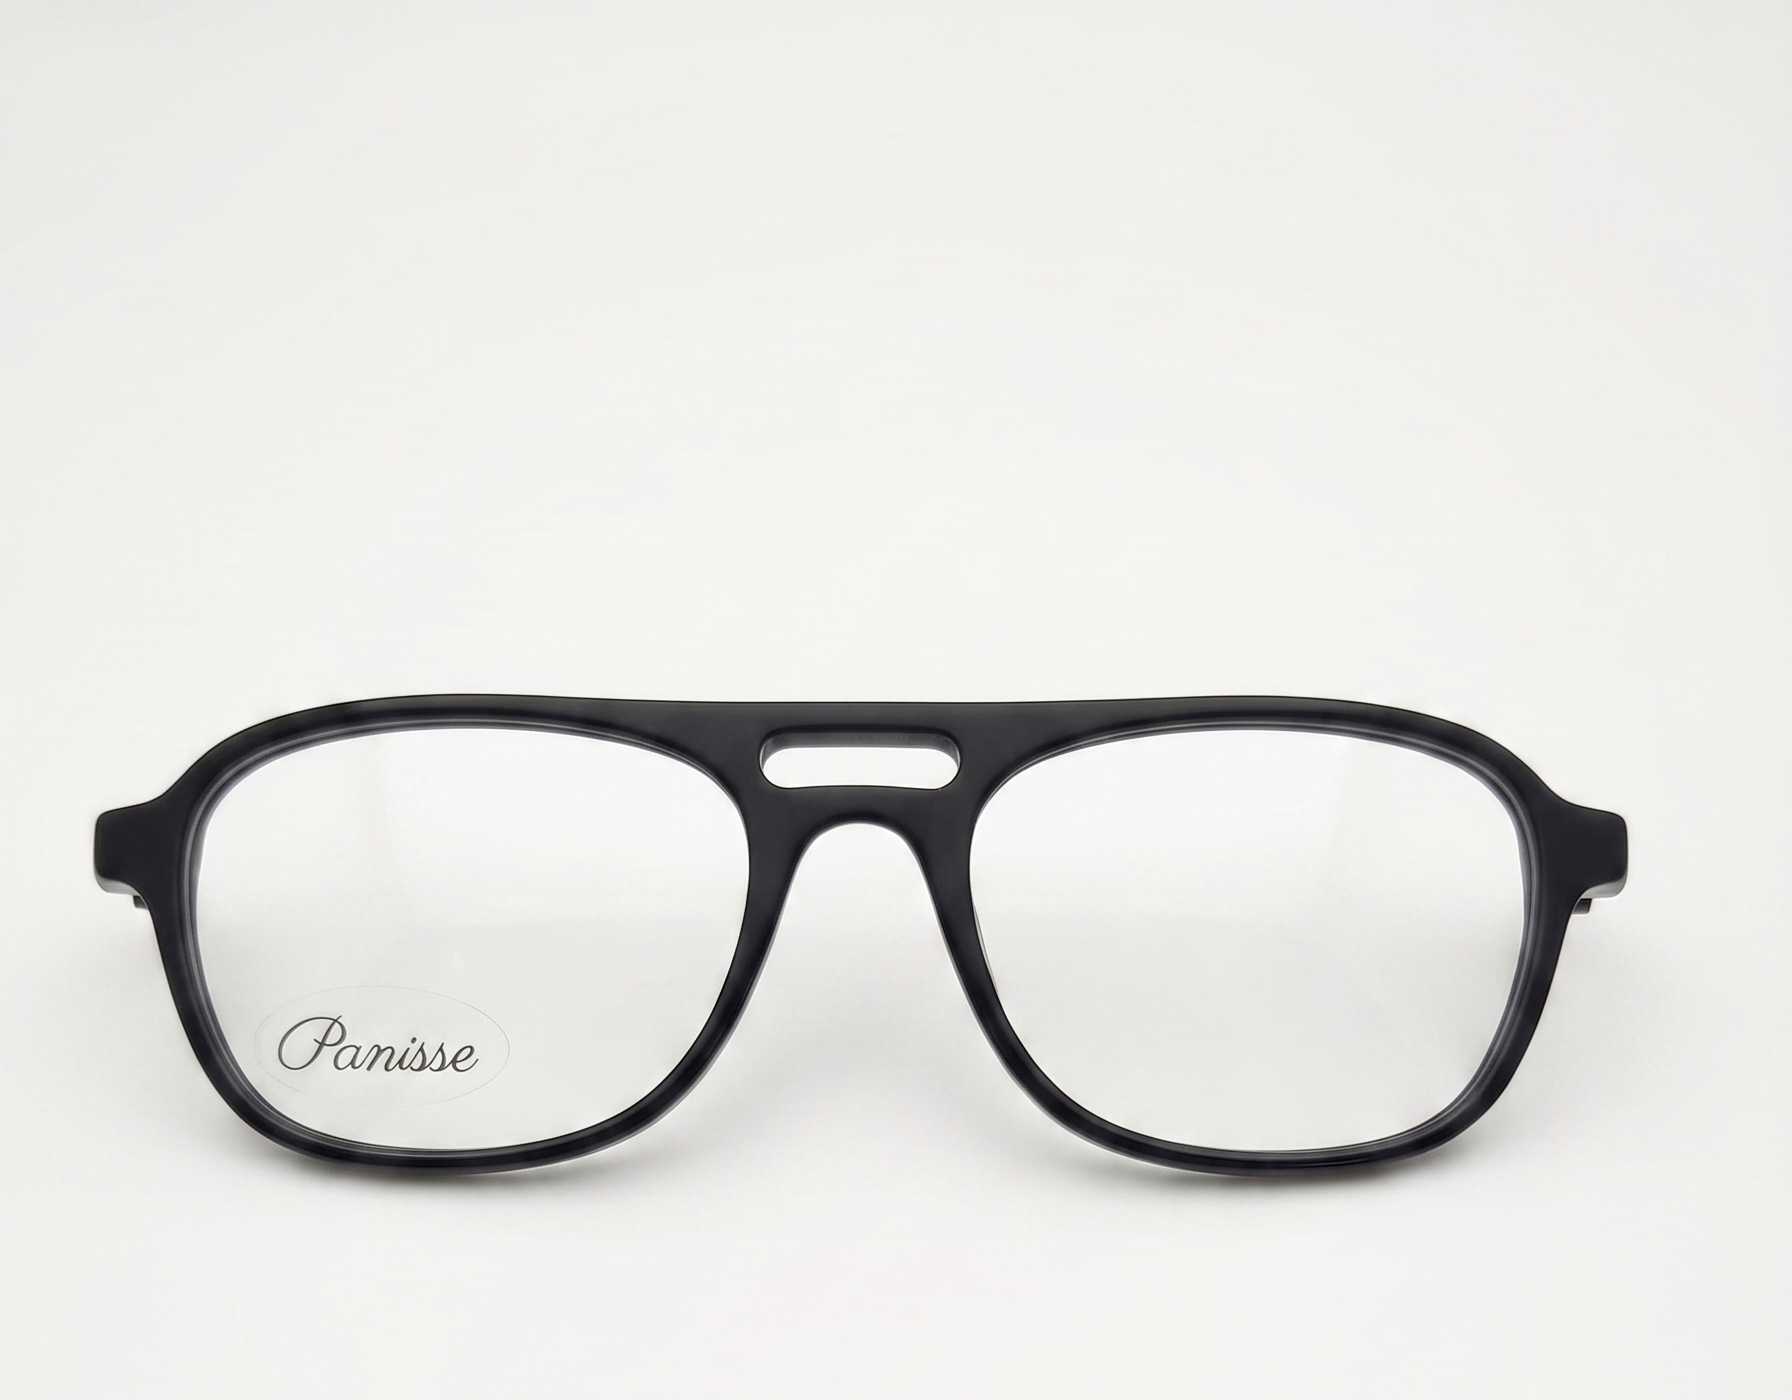
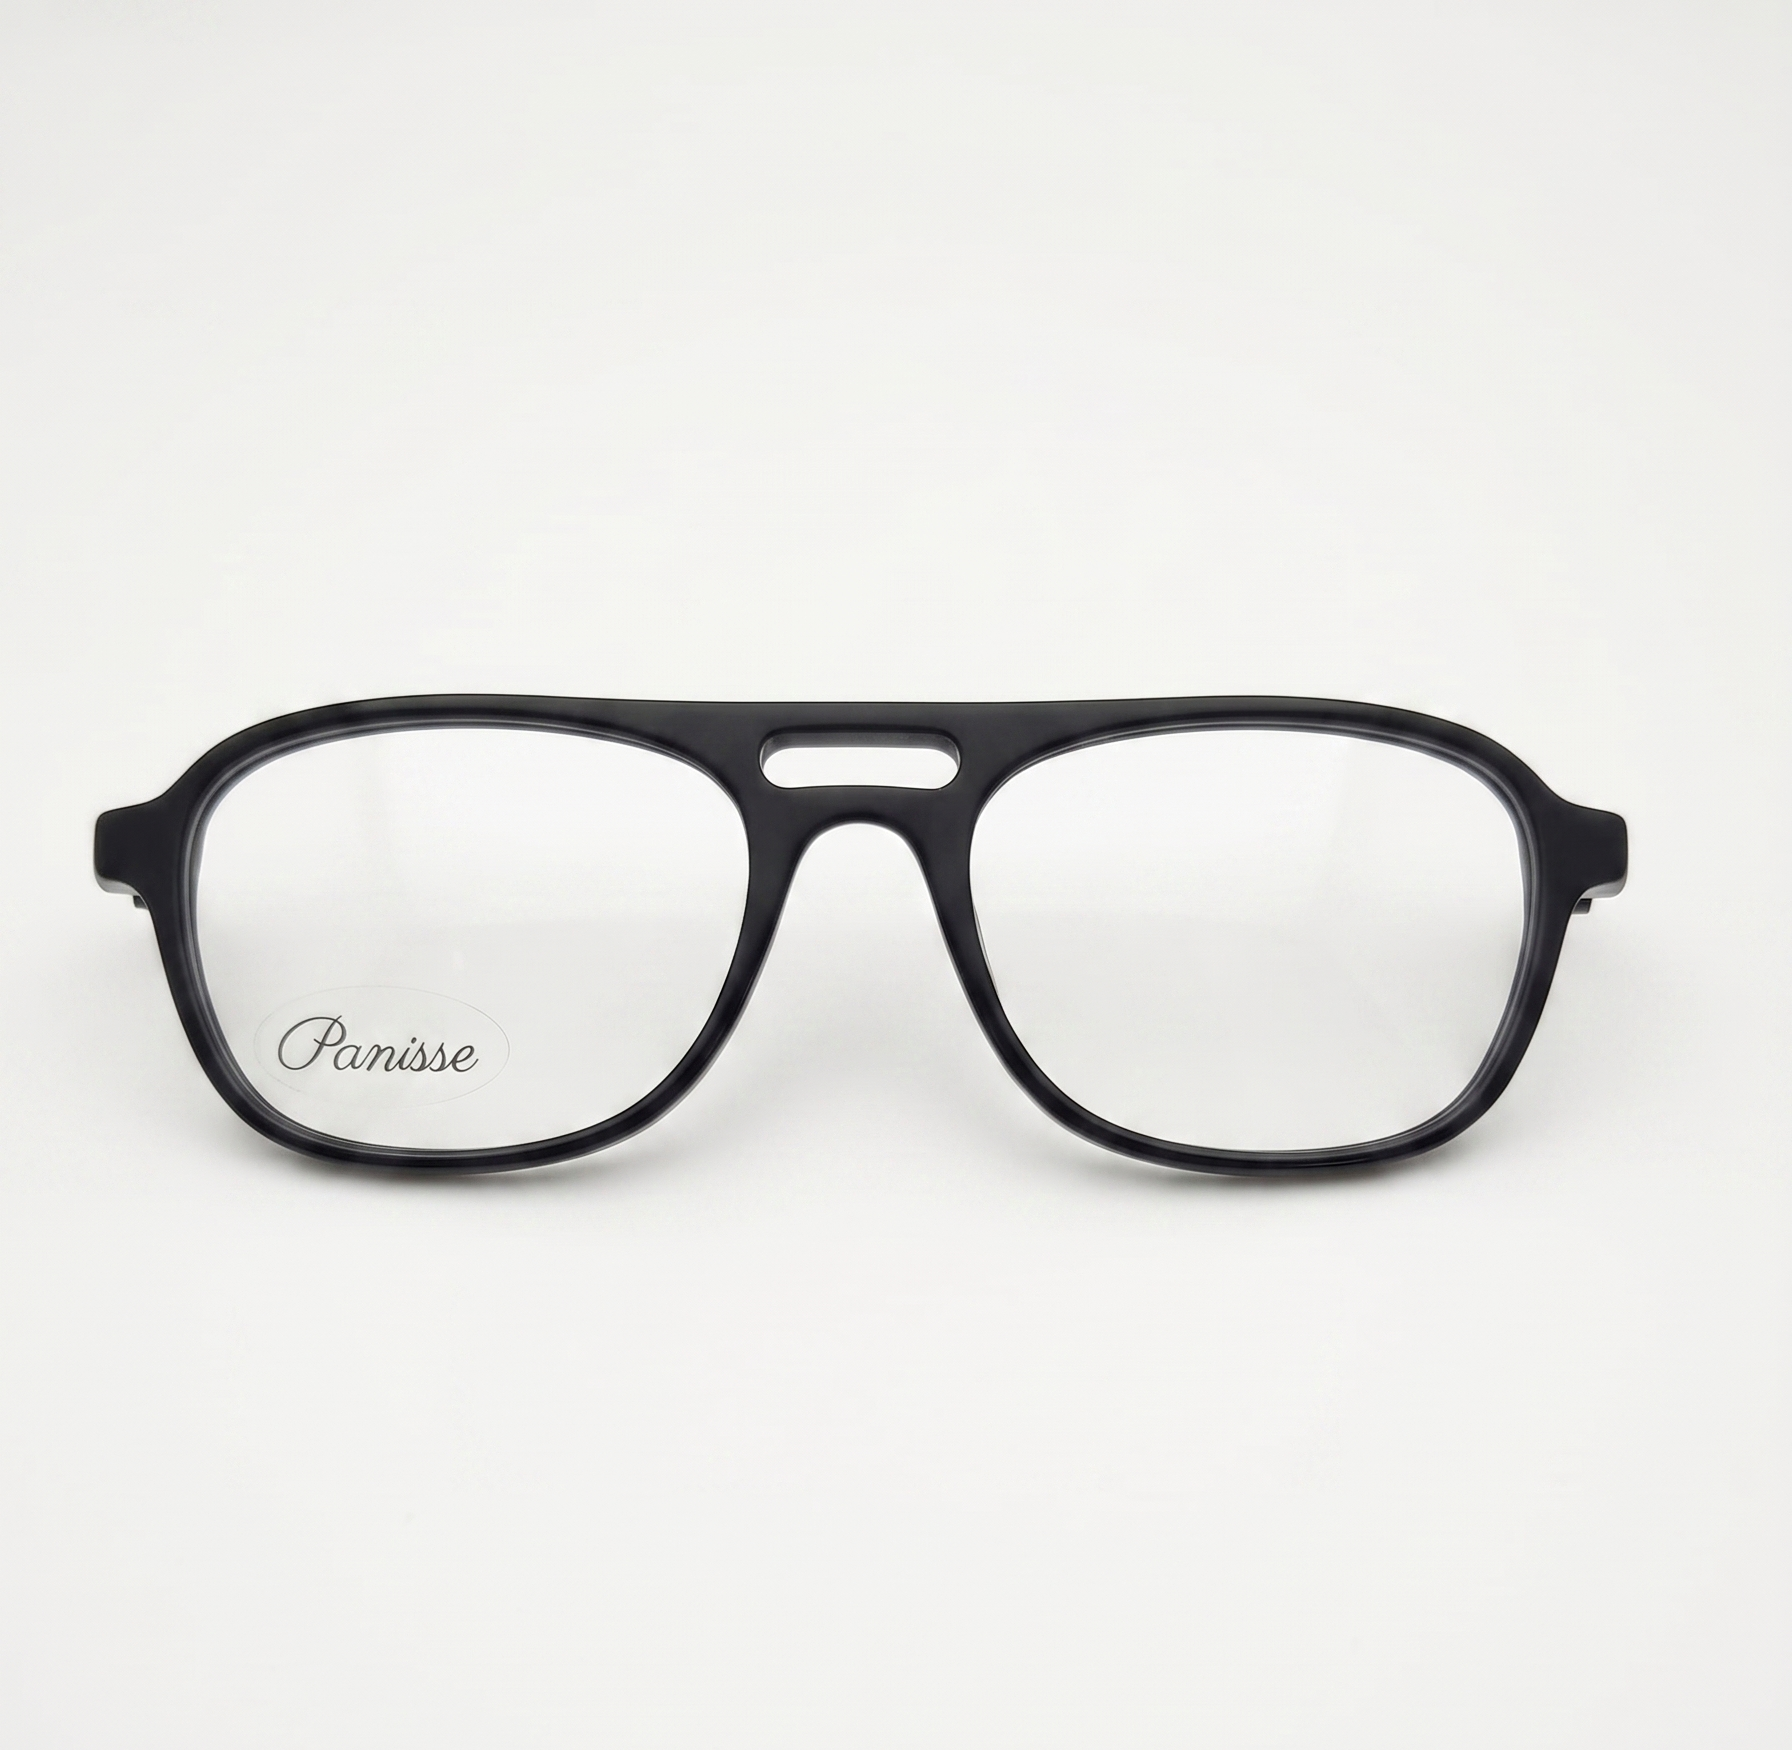
Fix: Dynamic breadcrumb on product page + Aviateur image re-centered
Breadcrumb type and brand now update from JSON instead of hardcoded
Panisse Boutique. Aviateur front photo recropped with proper margins.

Changed region(s): [[0.0312, 0.3686, 0.9062, 0.86]]

diff --git a/assets/js/main.js b/assets/js/main.js
@@ -659,6 +659,16 @@ async function initProductPage() {
     // Actualiza textos básicos
     document.title = `${p.brand} ${p.name} | Panisse Óptica`;
     
+    const breadType = document.getElementById('breadcrumb-type');
+    if (breadType) {
+      breadType.textContent = p.type === 'sol' ? 'De Sol' : 'Graduadas';
+      breadType.href = `catalogo.html?tipo=${p.type}`;
+    }
+    const breadBrand = document.getElementById('breadcrumb-brand');
+    if (breadBrand) {
+      breadBrand.textContent = p.brand;
+      breadBrand.href = `catalogo.html?marca=${p.brand_slug}`;
+    }
     const breadProduct = document.getElementById('breadcrumb-product');
     if (breadProduct) breadProduct.textContent = p.name;
     

diff --git a/producto.html b/producto.html
@@ -414,9 +414,9 @@
       <nav class="breadcrumb" aria-label="Ruta de navegación">
         <a href="index.html" class="breadcrumb__link">Inicio</a>
         <span class="breadcrumb__sep" aria-hidden="true">›</span>
-        <a href="catalogo.html?tipo=graduadas" class="breadcrumb__link">Graduadas</a>
+        <a href="catalogo.html?tipo=graduadas" class="breadcrumb__link" id="breadcrumb-type">Graduadas</a>
         <span class="breadcrumb__sep" aria-hidden="true">›</span>
-        <a href="catalogo.html?marca=panisse-boutique" class="breadcrumb__link">Panisse Boutique</a>
+        <a href="catalogo.html?marca=panisse" class="breadcrumb__link" id="breadcrumb-brand">Panisse</a>
         <span class="breadcrumb__sep" aria-hidden="true">›</span>
         <span class="breadcrumb__current" aria-current="page" id="breadcrumb-product">Cargando...</span>
       </nav>